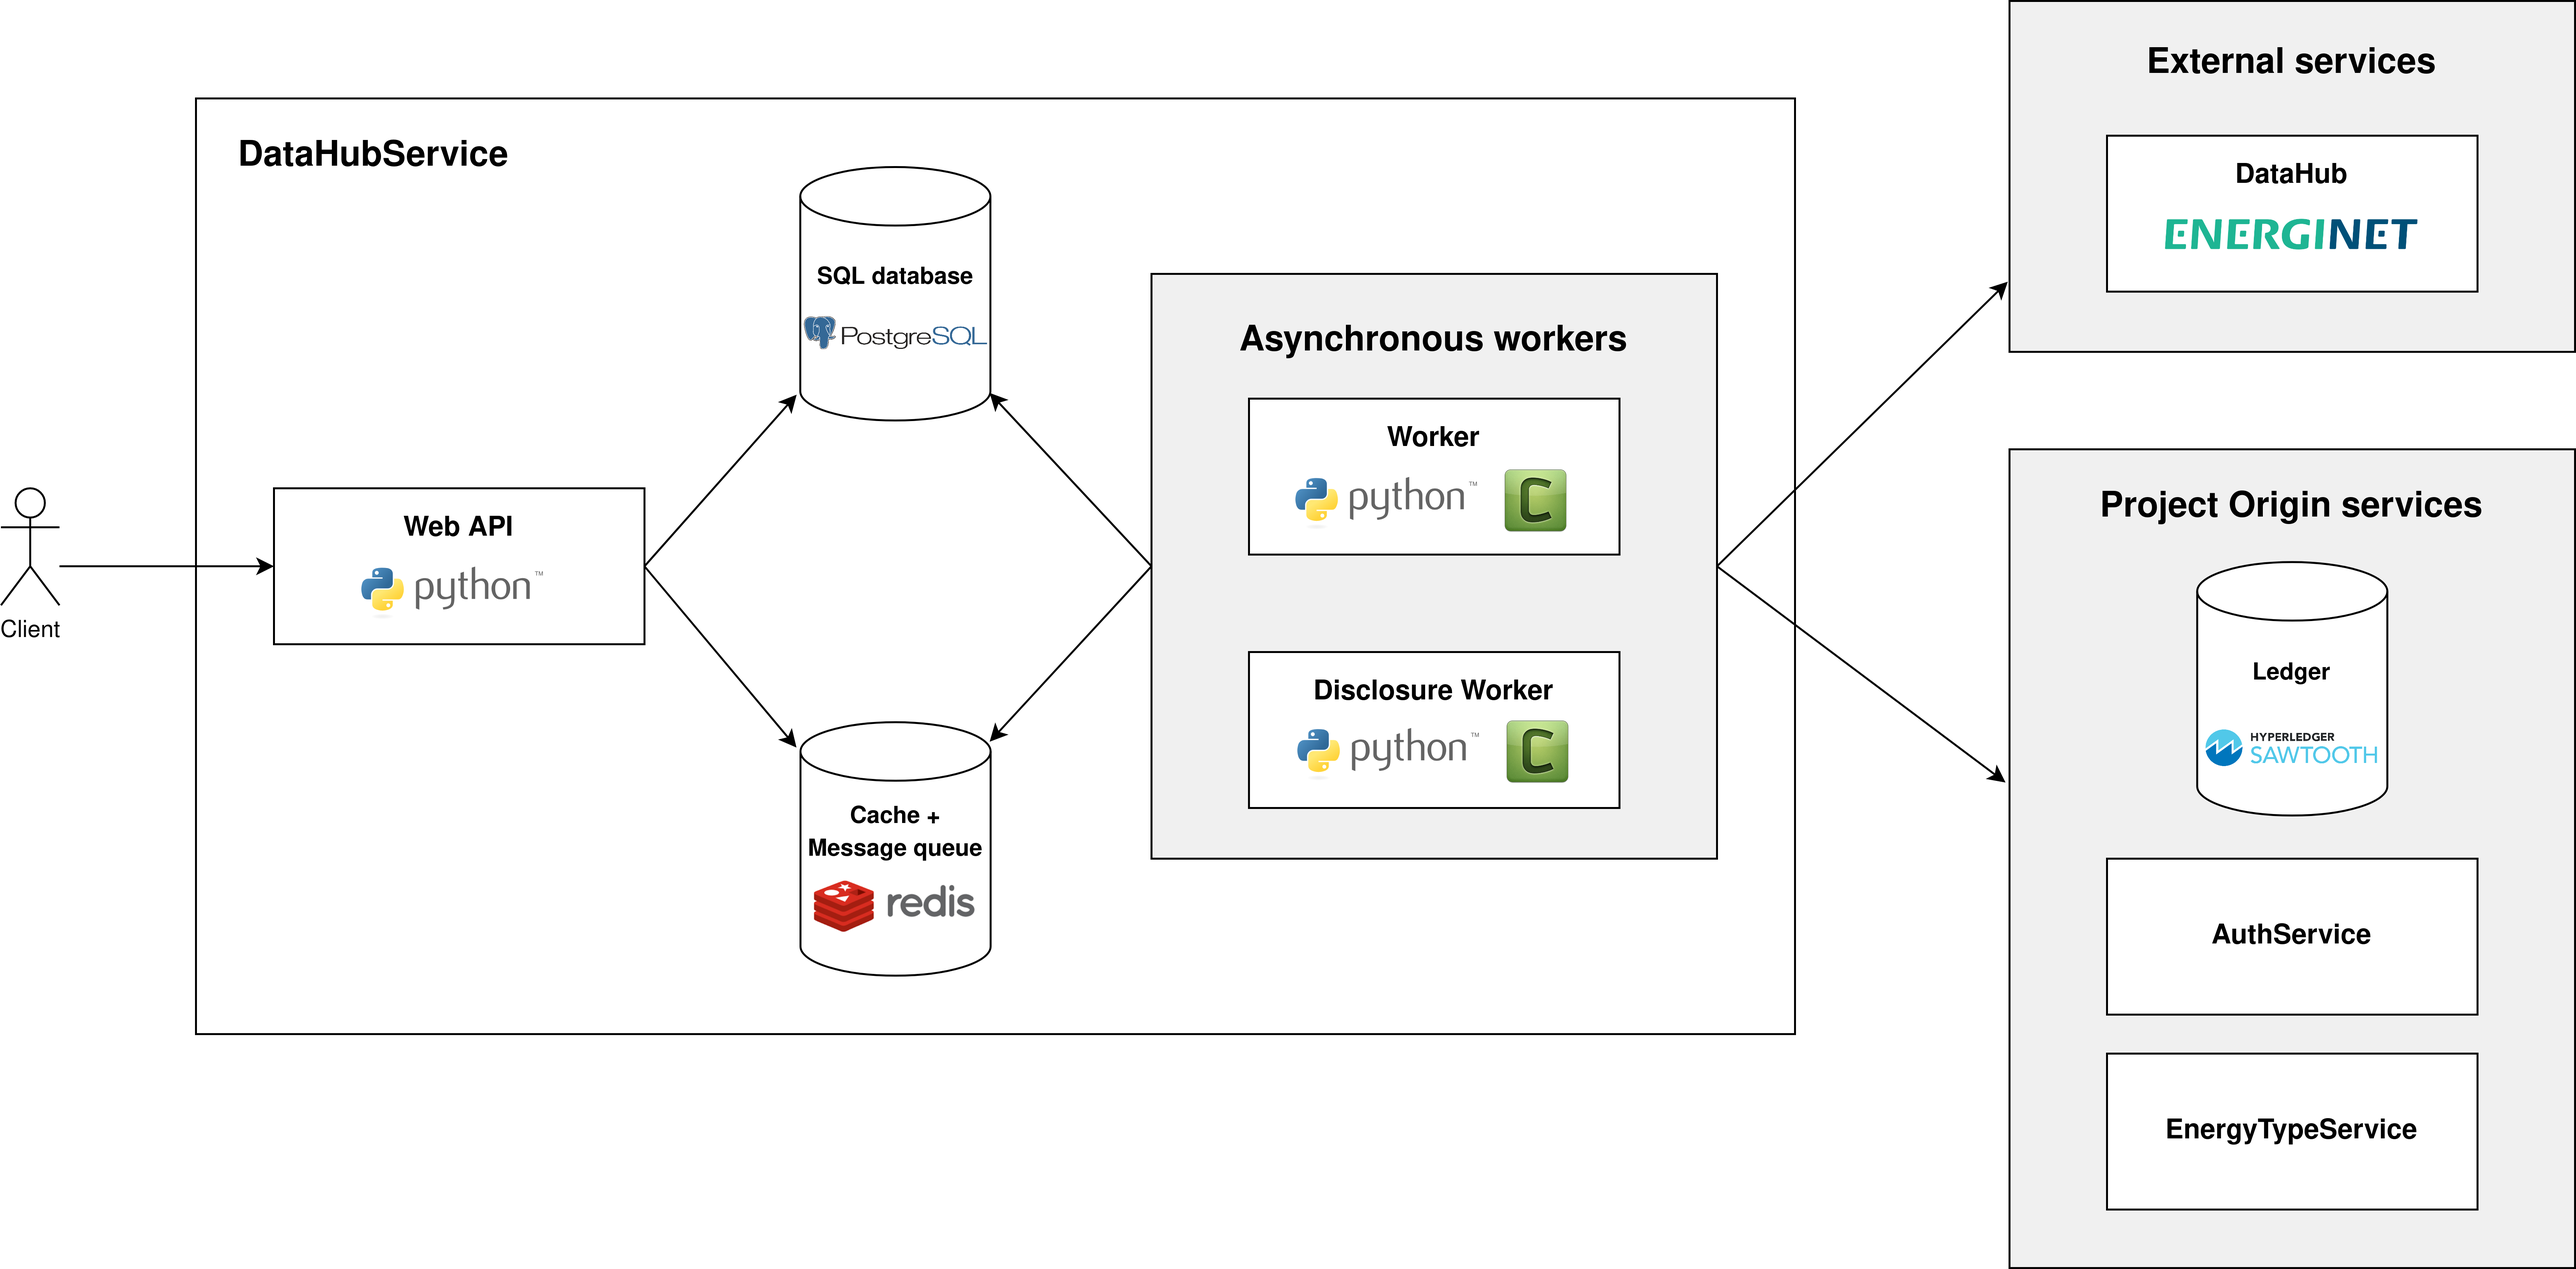
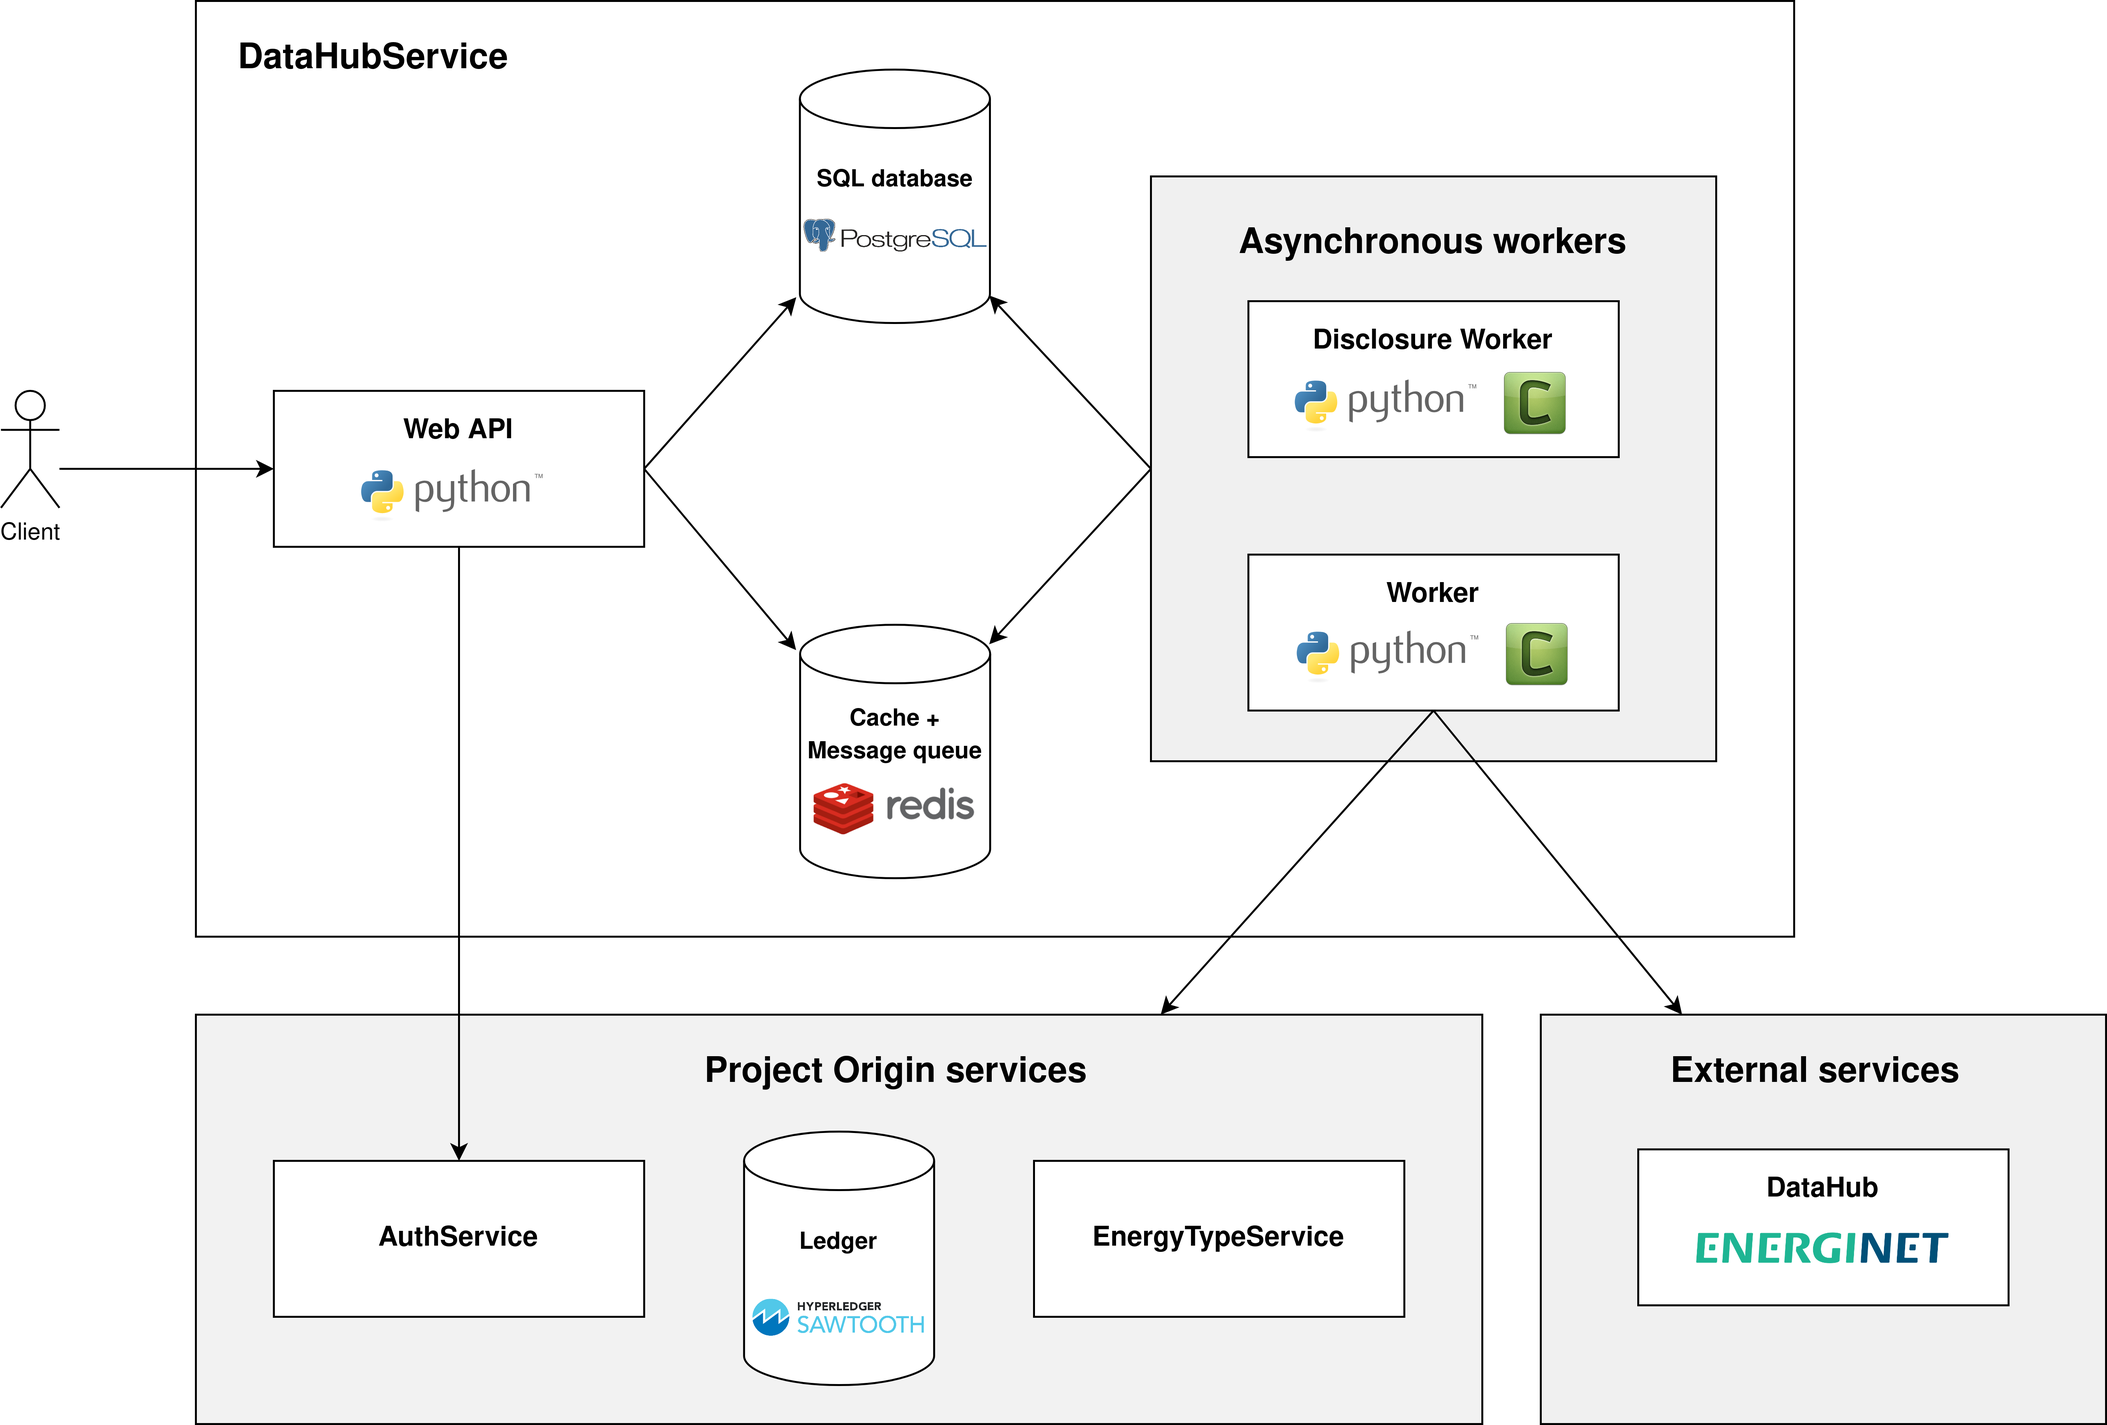
Updated README + system architecture diagram

diff --git a/README.md b/README.md
@@ -125,7 +125,14 @@ Worker Beat:
 
 # System architecture
 
+The following diagram depicts the overall architecture of DataHubService and its dependencies. A few key points is listes below the diagram.
+
 ![alt text](doc/DataHubService.png)
+
+- It exposes a web API using OAuth2 authentication.
+- It has two asynchronous workers running their own processes (containers), one generic worker and one for compiling Disclosures specifically.
+- The web API process starts asynchronous tasks by submitting them to a distributed queue using Redis.
+- The Worker imports data from DataHub and submits it to both the SQL database and the ledger.
 
 
 # 3rd party libraries
